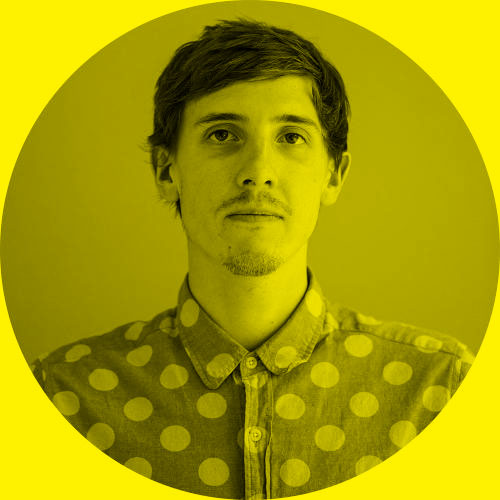
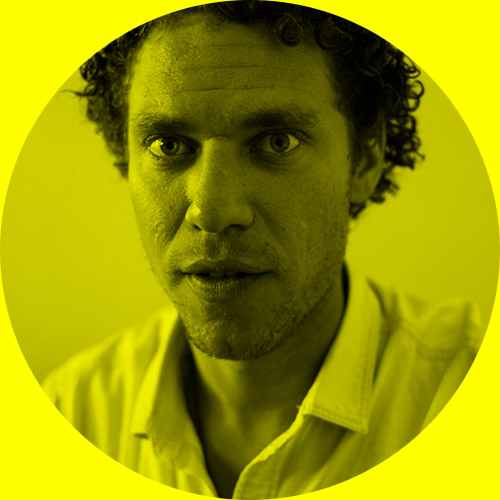
updated images, mobile nav, @yellow

diff --git a/index.html b/index.html
@@ -57,13 +57,13 @@
 		<div class="section text-center" id="section-2">
 			<div class="container-fluid">
 				<div class="row content-middle">
-					<h1>Tap! Tap! Tap! An app to get you smilin&#8217;!</h1>
-					<h2>KeepSmiling is a free iOS game wherethe user taps to maintain their smile. The longer the smile,<br>the happier you are!</h2>
+					<h1>Tap! Tap! Tap! An app to get you smiling!</h1>
+					<h2>Keep Smiling is a free iOS game wherethe user taps to maintain their smile. The longer the smile,<br>the happier you are!</h2>
 				</div>
 			</div>
 					<div class="nav swap">
 			<ul>
-				<li><a href="#section-3">What</a></li>
+				<li><a href="#section-2" class="current">What</a></li>
 				<li><a href="#section-4">Who</a></li>
 				<li><a href="#section-5">FAQ/Contact</a></li>
 				<li><a href="#section-6">Get it!</a></li>
@@ -91,9 +91,9 @@
 			<div class="container">
 				<div class="row content-middle">
 					<div class="who wade three-up">
-						<img src="assets/img/michael.jpg" alt="michael" width="500" height="500">
+						<img src="assets/img/wade.jpg" alt="wade">
 						<h4>Wade Jeffree</h4>
-						<p>Wade is an Australian Graphic Designer now living in NYC. He believes a smile is and positive attitude are compulsory in life!</p>
+						<p>Wade is an Australian Graphic Designer living in NYC. He believes a smile is and positive attitude are compulsory in life!</p>
 						<ul>
 							<li><p><a href="http://www.wadejeffree.com">Portfolio</a></p></li>
 							<li><p><a href="http://www.twitter.com/wadejeffree">Twitter</a></p></li>
@@ -101,7 +101,7 @@
 						</ul>
 					</div>
 					<div class="who michael three-up">
-						<img src="assets/img/michael.jpg" alt="michael" width="500" height="500">
+						<img src="assets/img/michael.jpg" alt="michael">
 						<h4>Michael Dijkstra</h4>
 						<p>Michael designs interfaces and writes code to build digital products from the always sunny Sydney, Australia.</p>
 						<ul>
@@ -111,9 +111,9 @@
 						</ul>
 					</div>
 					<div class="who jacob three-up">
-						<img src="assets/img/michael.jpg" alt="michael" width="500" height="500">
+						<img src="assets/img/jacob.jpg" alt="jacob">
 						<h4>Jacob Heftmann</h4>
-						<p>Jacob is a user interface designer sometimes based in, but never limited to, Brookly. He doesn't book return tickets.</p>
+						<p>Jacob is a user interface designer based in, but never limited to, Brooklyn. He doesn't book return tickets.</p>
 						<ul>
 							<li><p><a href="http://www.jacobheftmann.com">Portfolio</a></p></li>
 							<li><p><a href="http://www.twitter.com/jheftmann">Twitter</a></p></li>
@@ -145,10 +145,14 @@
 					<div class="column three-up">
 						<h4>Email</h4>
 						<p><a href="mailto:info@keepsmiling.com">info@keepsmiling.com</a></p>
+<!--
 						<h4>Twitter</h4>
 						<p><a href="http://www.twitter.com/">@KeepSmiling</a></p>
+-->
+<!--
 						<h4>Instagram</h4>
 						<p><a href="http://www.isntagram.com/">@KeepSmiling</a></p>
+-->
 						<h4>Offical font Sponsor</h4>
 						<p><a href="http://tendollarfonts.com/">Ten Dollar Fonts</a></p>
 						<h4>Speciel thanks</h4>

diff --git a/styles/site.css b/styles/site.css
@@ -4075,7 +4075,7 @@ html {
   height: 100%;
 }
 body {
-  background-color: #fff100;
+  background-color: #ffff00;
   min-height: 100%;
   font-size: 20px;
   line-height: 1.4;
@@ -4158,10 +4158,10 @@ ul {
   border-bottom: 1px solid #000000;
 }
 .text-yellow {
-  color: #fff100;
+  color: #ffff00;
 }
 .background-yellow {
-  background-color: #fff100;
+  background-color: #ffff00;
 }
 .text-yellow.swap,
 .background-yellow.swap {
@@ -4171,7 +4171,7 @@ ul {
   -o-transition: all 0.1s ease-in-out;
 }
 .outline:hover {
-  color: #fff100;
+  color: #ffff00;
   text-shadow: -1px -1px 0 #000000, 1px -1px 0 #000000, -1px 1px 0 #000000, 1px 1px 0 #000000;
 }
 .site-header {
@@ -4184,21 +4184,27 @@ ul {
   font-weight: normal;
   text-align: center;
 }
-@media (min-width: 768px) {
+@media (min-width: 992px) {
   .site-header {
     font-size: 45px;
   }
 }
 .sidebar {
-  font-size: 13px;
+  font-size: 15px;
   top: 50%;
   z-index: 999;
   font-family: 'ZonaPro-SemiBold', 'Futura', Helvetica, Arial, sans-serif;
   font-weight: normal;
   text-align: center;
   position: fixed;
+  display: none;
 }
 @media (min-width: 768px) {
+  .sidebar {
+    display: block;
+  }
+}
+@media (min-width: 992px) {
   .sidebar {
     font-size: 18px;
   }
@@ -4210,22 +4216,12 @@ ul {
   -webkit-transform: rotate(-90deg);
   -moz-transform: rotate(-90deg);
 }
-@media (min-width: 768px) {
-  .sidebar.sidebar-left {
-    left: -120px;
-  }
-}
 .sidebar.sidebar-right {
   right: -90px;
   -ms-transform: rotate(90deg);
   transform: rotate(90deg);
   -webkit-transform: rotate(90deg);
   -moz-transform: rotate(90deg);
-}
-@media (min-width: 768px) {
-  .sidebar.sidebar-right {
-    right: -120px;
-  }
 }
 .next-section {
   background: transparent url('../assets/img/arrow.svg') no-repeat center center;
@@ -4239,11 +4235,11 @@ ul {
 .section {
   min-height: 100%;
   position: relative;
-  border-top: 1px solid #fff100;
+  border-top: 1px solid #ffff00;
 }
 .section.dark {
   background-color: black;
-  color: #fff100;
+  color: #ffff00;
 }
 .section.dark a {
   border-bottom: 1px solid transparent;
@@ -4255,7 +4251,7 @@ ul {
 }
 .section.dark a:hover {
   border-bottom: 1px solid #000000;
-  border-color: #fff100;
+  border-color: #ffff00;
 }
 .nav {
   font-family: 'ZonaPro-SemiBold', 'Futura', Helvetica, Arial, sans-serif;
@@ -4263,13 +4259,20 @@ ul {
   position: absolute;
   text-align: center;
   width: 100%;
-  bottom: 40px;
+  bottom: 0;
   font-size: 15px;
   z-index: 999;
+  background-color: #000000;
+  color: #ffff00;
+  padding: 10px 0;
 }
 @media (min-width: 768px) {
   .nav {
+    background-color: transparent;
+    color: #000000;
     font-size: 18px;
+    bottom: 30px;
+    padding: 0;
   }
 }
 .nav ul li {
@@ -4285,7 +4288,12 @@ ul {
   margin-left: 0;
 }
 .nav ul li.current {
-  border-bottom: 2px solid #000000;
+  border-bottom: 2px solid #ffff00;
+}
+@media (min-width: 768px) {
+  .nav ul li.current {
+    border-color: #000000;
+  }
 }
 .nav.fixed {
   position: fixed !important;

diff --git a/styles/less/custom.less b/styles/less/custom.less
@@ -3,7 +3,7 @@
 @import "_fonts";
 
 //variables
-@yellow: #fff100;
+@yellow: #ffff00;
 
 // global
 * {
@@ -162,36 +162,34 @@ font-size: 25px;
 z-index: 999;
 .zona-extra;
 .text-center;
-@media (min-width: @screen-sm-min) {
+@media (min-width: @screen-md-min) {
 	font-size: 45px;
 	}
 }
 
 .sidebar {
-font-size: 13px;
+font-size: 15px;
 top: 50%;
 z-index: 999;
 .zona-semi;
 .text-center;
 .fixed;
+display: none;
 @media (min-width: @screen-sm-min) {
+	display: block;
+	}
+@media (min-width: @screen-md-min) {
 	font-size: 18px;
 	}
 
 	&.sidebar-left {
 	left: -90px;
 	.rotate(-90deg);
-	@media (min-width: @screen-sm-min) {
-		left: -120px;
-		}
 	}
 
 	&.sidebar-right {
 	right: -90px;
 	.rotate(90deg);
-	@media (min-width: @screen-sm-min) {
-		right: -120px;
-		}
 	}
 }
 
@@ -234,11 +232,18 @@ color: @yellow;
 .absolute;
 .text-center;
 width: 100%;
-bottom: 40px;
+bottom: 0;
 font-size: 15px;
 z-index: 999;
+background-color: @black;
+color: @yellow;
+padding: 10px 0;
 @media (min-width: @screen-sm-min) {
+	background-color: transparent;
+	color: @black;
 	font-size: 18px;
+	bottom: 30px;
+	padding: 0;
 	}
 
 	ul {
@@ -255,7 +260,10 @@ z-index: 999;
 			}
 
 			&.current {
-			border-bottom: 2px solid @black;
+			border-bottom: 2px solid @yellow;
+			@media (min-width: @screen-sm-min) {
+				border-color: @black;
+				}
 			}
 		}
 	}

diff --git a/scripts/site.js b/scripts/site.js
@@ -3,7 +3,7 @@ $(document).ready(function() {
 	// center content within sections
   $(window).resize(function() {
 
-	 if ($(window).width() >= 480) {
+	 //if ($(window).width() >= 480) {
 	    $('.section').each(function(){
 	      var parent = $(this);
 	      var child = $(this).find('.content-middle');
@@ -15,9 +15,9 @@ $(document).ready(function() {
 	      console.log(child);
 
 	    });
-    } else {
+   // } else {
 
-    }
+   // }
 
   });
 
